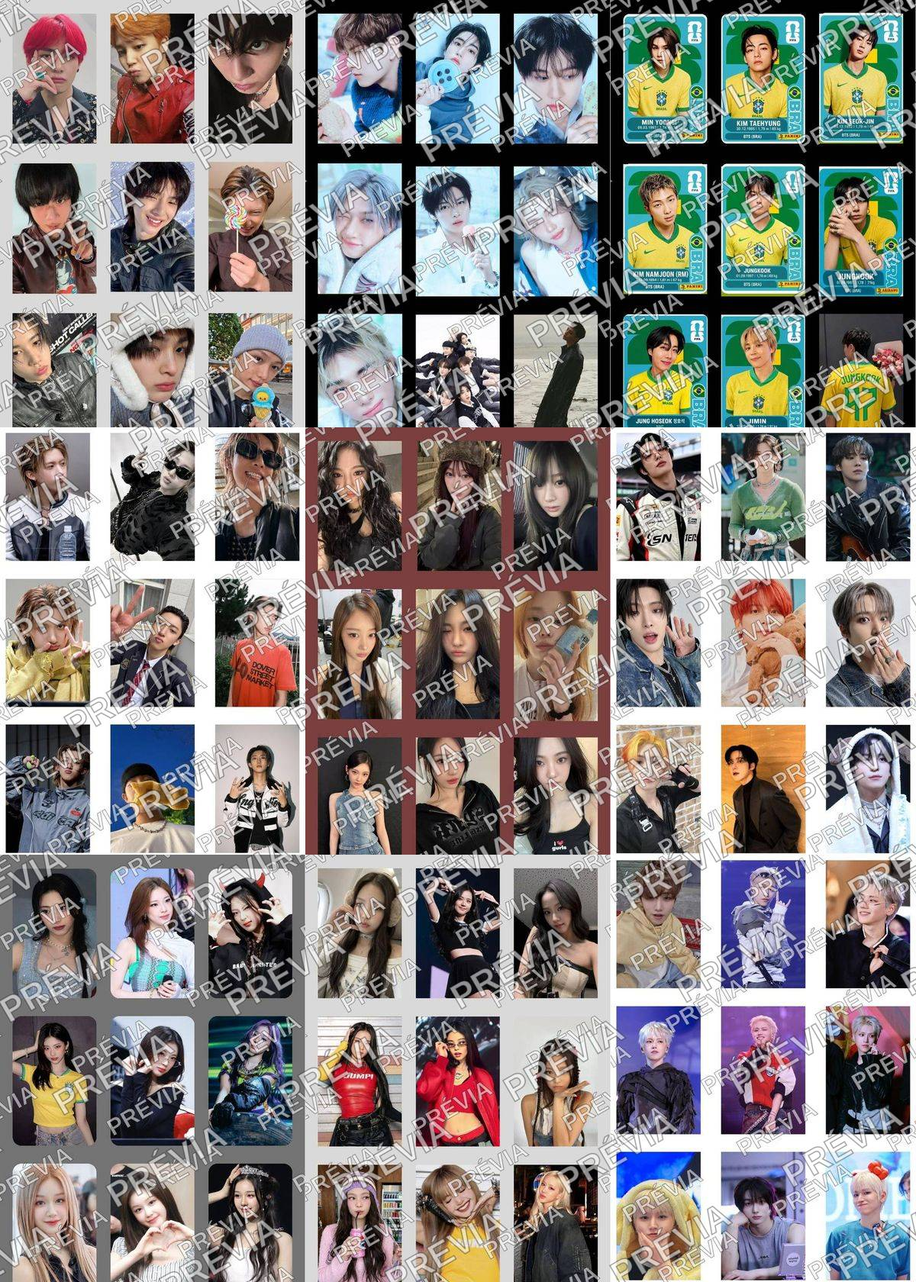
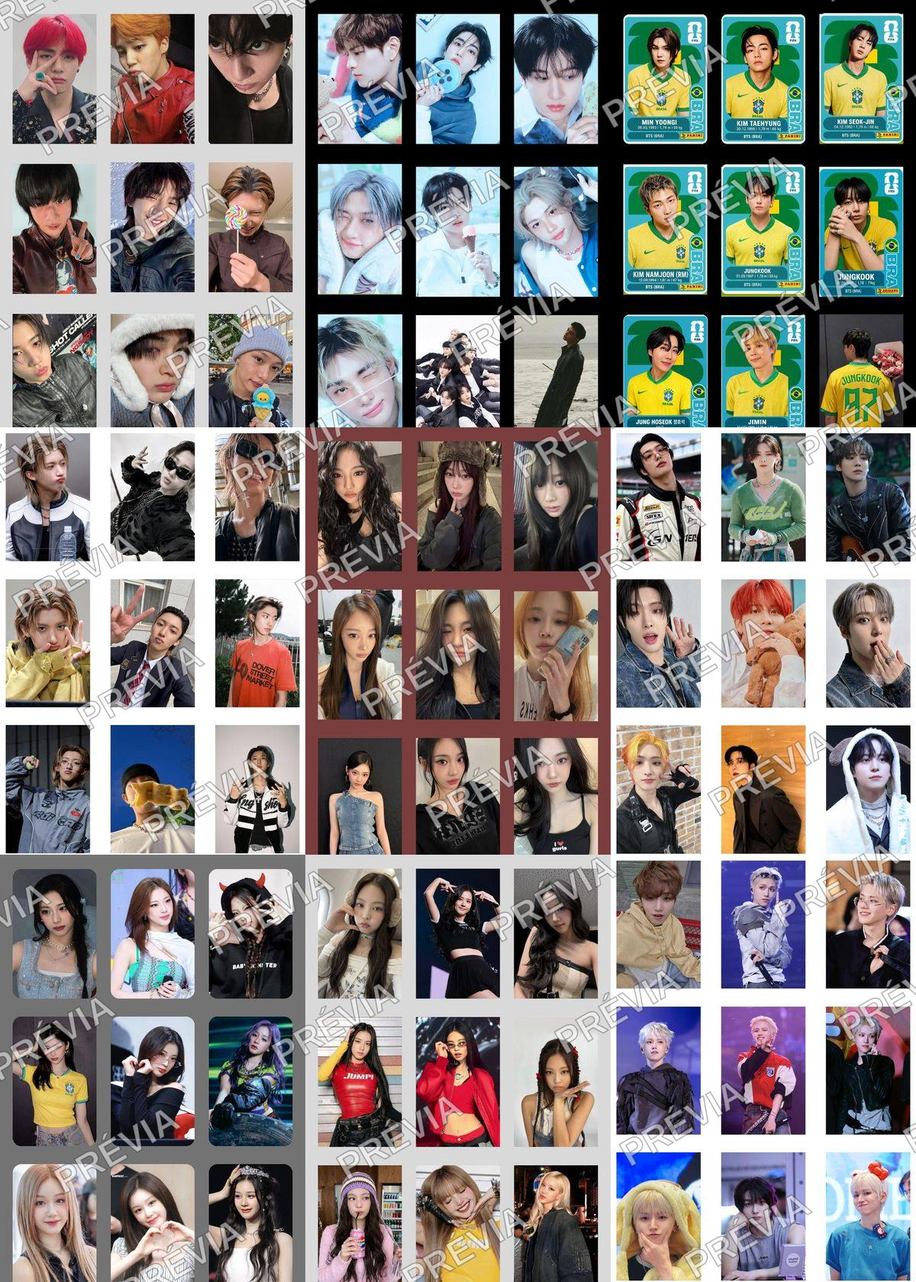
Prévia única e compacta (mosaico) por produto, pulando páginas de texto
Claude-Session: https://claude.ai/code/session_01Gy6WHF5XaAZKLyWcQk34ah

Changed region(s): [[0.0, 0.0, 1.0, 1.0]]

diff --git a/scripts/gerar-previas.js b/scripts/gerar-previas.js
@@ -1,106 +1,118 @@
 #!/usr/bin/env node
-// Gera imagens de prévia (com marca d'água "PRÉVIA") para os PDFs do catálogo.
+// Gera UMA imagem de prévia por produto: um mosaico compacto com marca d'água "PRÉVIA".
+//   - produto com vários PDFs  -> 1ª página "boa" de cada PDF (até 9, grade 3x3)
+//   - produto com um só PDF    -> até 4 páginas desse PDF (grade 2x2)
+// Páginas de texto (ex.: "Aviso de uso e direitos autorais") são puladas.
 //
 //   npm run previas            -> gera só as prévias que ainda não existem
 //   npm run previas -- --force -> regera todas
 //
-// Requer o `pdftoppm` (pacote poppler-utils no Linux, `brew install poppler` no Mac).
+// Requer o `pdftoppm`/`pdftotext` (poppler-utils no Linux, `brew install poppler` no Mac).
 
 import fs from 'node:fs';
 import path from 'node:path';
 import os from 'node:os';
 import { execFileSync } from 'node:child_process';
 import sharp from 'sharp';
-import { loadCatalog, previewPathForFile, productPreviewPath } from '../src/catalog.js';
+import { loadCatalog, productPreviewPath, slugify } from '../src/catalog.js';
 import { config } from '../src/config.js';
 
 const force = process.argv.includes('--force');
-const LARGURA = 600;
+const CACHE = path.join(config.previewDir, '.cache'); // páginas renderizadas (fora do git)
+const CEL_W = 400;
+const CEL_H = 560;
+const PAGINAS_ANALISADAS = 6;
+const MAX_POR_PDF = 4;
 
-function watermark(width, height) {
-  const linhas = [];
-  for (let y = -height; y < height * 2; y += 140) {
-    for (let x = -width; x < width * 2; x += 260) {
-      linhas.push(`<text x="${x}" y="${y}">PRÉVIA</text>`);
-    }
-  }
-  return Buffer.from(`
-    <svg width="${width}" height="${height}" xmlns="http://www.w3.org/2000/svg">
-      <g transform="rotate(-30 ${width / 2} ${height / 2})"
-         font-family="Arial, Helvetica, sans-serif" font-size="46" font-weight="bold"
-         fill="#ffffff" fill-opacity="0.55" stroke="#000000" stroke-opacity="0.35" stroke-width="1.5">
-        ${linhas.join('')}
-      </g>
-    </svg>`);
-}
+const pageCount = (pdf) => Number(/Pages:\s+(\d+)/.exec(execFileSync('pdfinfo', [pdf]).toString())?.[1] || 1);
+const pageText = (pdf, p) =>
+  execFileSync('pdftotext', ['-f', String(p), '-l', String(p), pdf, '-']).toString().replace(/\s/g, '');
 
-async function renderPrimeiraPagina(pdf) {
+function renderPage(pdf, p) {
   const tmp = fs.mkdtempSync(path.join(os.tmpdir(), 'previa-'));
   try {
-    const prefixo = path.join(tmp, 'p');
-    execFileSync('pdftoppm', ['-f', '1', '-l', '1', '-scale-to', String(LARGURA * 2), '-jpeg', pdf, prefixo]);
-    const gerado = fs.readdirSync(tmp).find((f) => f.endsWith('.jpg'));
-    if (!gerado) throw new Error('pdftoppm não gerou imagem');
-    return fs.readFileSync(path.join(tmp, gerado));
+    execFileSync('pdftoppm', ['-f', String(p), '-l', String(p), '-scale-to', String(CEL_H * 2), '-jpeg', pdf, path.join(tmp, 'p')]);
+    const f = fs.readdirSync(tmp).find((x) => x.endsWith('.jpg'));
+    return fs.readFileSync(path.join(tmp, f));
   } finally {
     fs.rmSync(tmp, { recursive: true, force: true });
   }
 }
 
-async function comMarcaDagua(input) {
-  const img = sharp(input).resize({ width: LARGURA, height: LARGURA * 1.5, fit: 'inside' });
-  const { width, height } = await img.clone().toBuffer({ resolveWithObject: true }).then((r) => r.info);
-  return img.composite([{ input: watermark(width, height) }]).jpeg({ quality: 70 }).toBuffer();
+/** Fração de pixels quase brancos — página de texto/aviso tem quase tudo branco. */
+async function whiteFraction(img) {
+  const { data } = await sharp(img).resize(80, 112, { fit: 'fill' }).greyscale().raw().toBuffer({ resolveWithObject: true });
+  let w = 0;
+  for (const v of data) if (v > 230) w++;
+  return w / data.length;
 }
 
-async function mosaico(imagens, destino) {
-  const cols = imagens.length >= 9 ? 3 : imagens.length >= 4 ? 2 : imagens.length;
-  const usadas = imagens.slice(0, cols * cols);
-  const cel = 400;
-  const altura = Math.round(cel * 1.4);
-  const linhas = Math.ceil(usadas.length / cols);
-  const tiles = await Promise.all(
-    usadas.map(async (img, i) => ({
-      input: await sharp(img).resize(cel, altura, { fit: 'cover', position: 'top' }).toBuffer(),
-      left: (i % cols) * cel,
-      top: Math.floor(i / cols) * altura,
-    })),
-  );
-  const W = cols * cel;
-  const H = linhas * altura;
+/** Retorna até `max` páginas "boas" (com imagens) do PDF, com cache em disco. */
+async function goodPages(pdf, max) {
+  const dir = path.join(CACHE, slugify(path.relative(config.contentDir, pdf).replace(/\.pdf$/i, '')));
+  const meta = path.join(dir, 'paginas.json');
+  if (!force && fs.existsSync(meta)) {
+    const cached = JSON.parse(fs.readFileSync(meta, 'utf8'));
+    return cached.pages.slice(0, max).map((f) => fs.readFileSync(path.join(dir, f)));
+  }
+  fs.mkdirSync(dir, { recursive: true });
+  const total = pageCount(pdf);
+  const good = [];
+  let first = null;
+  for (let p = 1; p <= Math.min(total, PAGINAS_ANALISADAS) && good.length < MAX_POR_PDF; p++) {
+    const img = renderPage(pdf, p);
+    const name = `p${p}.jpg`;
+    await sharp(img).resize(CEL_W, CEL_H, { fit: 'cover', position: 'top' }).jpeg({ quality: 80 }).toFile(path.join(dir, name));
+    first ??= name;
+    const isText = pageText(pdf, p).length > 300 || (await whiteFraction(img)) > 0.8;
+    if (!isText) good.push(name);
+  }
+  if (!good.length) good.push(first); // PDF só de texto: usa a 1ª página mesmo
+  fs.writeFileSync(meta, JSON.stringify({ pages: good }));
+  return good.slice(0, max).map((f) => fs.readFileSync(path.join(dir, f)));
+}
+
+function watermark(width, height) {
+  const t = [];
+  for (let y = -height; y < height * 2; y += 170) for (let x = -width; x < width * 2; x += 330) t.push(`<text x="${x}" y="${y}">PRÉVIA</text>`);
+  return Buffer.from(`<svg width="${width}" height="${height}" xmlns="http://www.w3.org/2000/svg">
+    <g transform="rotate(-30 ${width / 2} ${height / 2})" font-family="Arial, Helvetica, sans-serif" font-size="48" font-weight="bold"
+       fill="#ffffff" fill-opacity="0.5" stroke="#000000" stroke-opacity="0.3" stroke-width="1.5">${t.join('')}</g></svg>`);
+}
+
+async function mosaic(tiles, destino) {
+  const cols = tiles.length >= 5 ? 3 : tiles.length >= 2 ? 2 : 1;
+  const used = tiles.slice(0, cols === 3 ? 9 : cols === 2 ? 4 : 1);
+  const rows = Math.ceil(used.length / cols);
+  const W = cols * CEL_W;
+  const H = rows * CEL_H;
   await sharp({ create: { width: W, height: H, channels: 3, background: '#ffffff' } })
-    .composite([...tiles, { input: watermark(W, H) }])
-    .jpeg({ quality: 70 })
+    .composite([
+      ...used.map((input, i) => ({ input, left: (i % cols) * CEL_W, top: Math.floor(i / cols) * CEL_H })),
+      { input: watermark(W, H) },
+    ])
+    .jpeg({ quality: 72 })
     .toFile(destino);
 }
 
 const catalog = loadCatalog({ checkFiles: true });
-const pdfs = new Set();
-for (const p of catalog.products) for (const f of p.files) if (f.mimetype === 'application/pdf') pdfs.add(f.absPath);
-
-let geradas = 0;
-for (const pdf of pdfs) {
-  const destino = previewPathForFile(pdf);
-  if (!force && fs.existsSync(destino)) continue;
-  fs.mkdirSync(path.dirname(destino), { recursive: true });
-  try {
-    fs.writeFileSync(destino, await comMarcaDagua(await renderPrimeiraPagina(pdf)));
-    geradas++;
-    console.log('✔', path.relative(config.contentDir, pdf));
-  } catch (err) {
-    console.error('✘', path.relative(config.contentDir, pdf), '-', err.message);
-  }
-}
-
+let n = 0;
 for (const p of catalog.products) {
-  const capas = p.files.map((f) => previewPathForFile(f.absPath)).filter((f) => fs.existsSync(f));
-  if (capas.length < 2) continue;
   const destino = productPreviewPath(p.id);
   if (!force && fs.existsSync(destino)) continue;
-  fs.mkdirSync(path.dirname(destino), { recursive: true });
-  await mosaico(capas, destino);
-  geradas++;
-  console.log('✔ mosaico', p.id);
+  const pdfs = p.files.filter((f) => f.mimetype === 'application/pdf');
+  if (!pdfs.length) continue;
+  try {
+    const tiles =
+      pdfs.length === 1
+        ? await goodPages(pdfs[0].absPath, 4)
+        : (await Promise.all(pdfs.slice(0, 12).map((f) => goodPages(f.absPath, 1)))).flat().slice(0, 9);
+    fs.mkdirSync(path.dirname(destino), { recursive: true });
+    await mosaic(tiles, destino);
+    n++;
+    console.log('✔', p.id);
+  } catch (err) {
+    console.error('✘', p.id, '-', err.message);
+  }
 }
-
-console.log(`\n${geradas} prévia(s) gerada(s) em ${path.relative(process.cwd(), config.previewDir) || '.'}`);
+console.log(`\n${n} prévia(s) gerada(s) em ${path.relative(process.cwd(), path.dirname(productPreviewPath('x')))}`);

diff --git a/src/catalog.js b/src/catalog.js
@@ -20,13 +20,7 @@ export function slugify(text) {
     .replace(/^-|-$/g, '');
 }
 
-/** Caminho da imagem de prévia de um arquivo (PDF) do repositório. */
-export function previewPathForFile(absPath) {
-  const rel = path.relative(config.contentDir, absPath);
-  return path.join(config.previewDir, 'arquivos', slugify(rel.replace(/\.[^.]+$/, '')) + '.jpg');
-}
-
-/** Caminho do mosaico de prévia de um produto com vários arquivos. */
+/** Caminho da imagem de prévia (mosaico) de um produto. */
 export function productPreviewPath(productId) {
   return path.join(config.previewDir, 'produtos', slugify(productId) + '.jpg');
 }
@@ -81,14 +75,10 @@ function buildProduct(raw, opts) {
   const files = expandFiles(raw.arquivos || [], opts);
   if (opts.checkFiles && files.length === 0) throw new Error(`Produto "${raw.id}" não tem arquivos`);
 
-  let previews;
-  if (raw.previas?.length) {
-    previews = raw.previas.map((p) => resolveInside(path.dirname(config.catalogFile), p));
-  } else {
-    const mosaic = productPreviewPath(raw.id);
-    const covers = files.map((f) => previewPathForFile(f.absPath));
-    previews = files.length > 1 ? [mosaic, ...covers.slice(0, 3)] : covers;
-  }
+  // Uma única imagem (mosaico) por produto, ou as imagens definidas em "previas"
+  let previews = raw.previas?.length
+    ? raw.previas.map((p) => resolveInside(path.dirname(config.catalogFile), p))
+    : [productPreviewPath(raw.id)];
   previews = previews.filter((p) => fs.existsSync(p));
 
   return {

diff --git a/README.md b/README.md
@@ -101,7 +101,7 @@ Tudo fica no [`catalog.json`](catalog.json):
 npm run previas
 ```
 
-As prévias ficam em `previas/` (primeira página de cada PDF, em baixa resolução e com marca d'água, e um mosaico para produtos com vários arquivos). Para usar imagens próprias, coloque `"previas": ["previas/minha-imagem.jpg"]` no produto. Depois de alterar o catálogo, reinicie o bot.
+As prévias ficam em `previas/produtos/`: **uma imagem por produto**, um mosaico compacto com marca d'água (até 4 páginas para um PDF avulso; a 1ª página de cada PDF, até 9, para pacotes). Páginas só de texto, como o aviso de direitos autorais, são puladas. Para usar imagens próprias, coloque `"previas": ["previas/minha-imagem.jpg"]` no produto. Depois de alterar o catálogo, reinicie o bot.
 
 ## Como a confirmação do pagamento funciona
 
